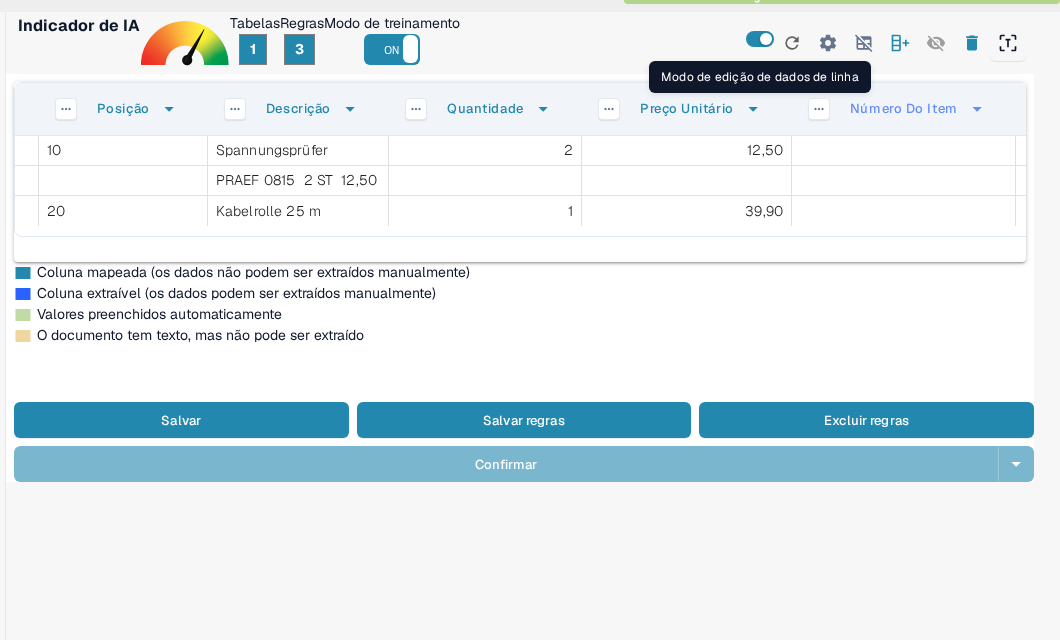
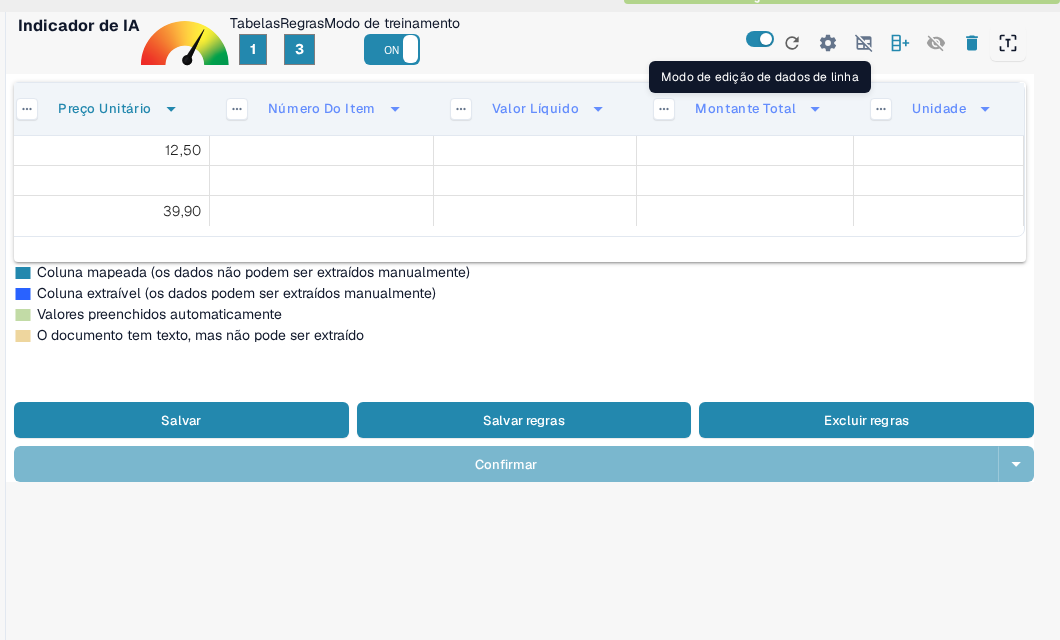
DBDC-541 PT rework r1: make editable-columns shot distinct and truthful
Reviewer (run 1583) found the editable-columns PT figure byte-identical to the
row-edit-mode figure while the captions claimed different content, and neither
the blue editable headers nor a tooltip were visibly in frame.

- pageshots.py: add a language-independent `scroll` step for overflow containers
  (needed so the grid's off-screen blue extractable headers enter the clip).
- PT spec: editable-columns shot now scrolls the grid container right so the
  blue extractable headers (Numero Do Item, Valor Liquido, Montante Total,
  Unidade) are actually visible in frame; hover kept on the row-edit toggle.
- Recaptured via mock runner: report ALL OK, problems [], unmocked [],
  share_same_as_en 0.51; new PT sha256 a27044c17adcfd45 differs from
  row-edit-mode 1325e56bb9c315b8.
- Page: drop the tooltip claim from the row-edit-mode alt text (the visible
  tooltip is not part of that frame), describe the scrolled blue headers in the
  editable-columns alt text.
- Ledger: central ledger rows 791/792 recorded and verdict current.

diff --git a/readme/administration-and-setup/setup/document-training/training-line-fields-table-training/improving-table-extraction-with-regex.md b/readme/administration-and-setup/setup/document-training/training-line-fields-table-training/improving-table-extraction-with-regex.md
@@ -42,11 +42,11 @@ Aqui está um exemplo em que a linha "PRAEF" se sobrepõe a **Bezeichnung**, **M
     <figure><img src="../../../../.gitbook/assets/a-training-line-fields-table-training-improving-table-extraction-with-regex-training-mode-pt-20261009.png" alt="Tela de Extração de Tabela com o Modo de treinamento ativado."><figcaption><p>Modo de treinamento ativado.</p></figcaption></figure>
 2.  **Ativar o Modo de Edição de Linha**
 
-    <figure><img src="../../../../.gitbook/assets/a-training-line-fields-table-training-improving-table-extraction-with-regex-row-edit-mode-pt-20261009.png" alt="Tela de Extração de Tabela com o modo Edição de dados de linha: Ativado e a dica de ferramenta correspondente visível."><figcaption><p>Modo de edição de linha ativado.</p></figcaption></figure>
+    <figure><img src="../../../../.gitbook/assets/a-training-line-fields-table-training-improving-table-extraction-with-regex-row-edit-mode-pt-20261009.png" alt="Tela de Extração de Tabela com o modo Edição de dados de linha ativado e a tabela pronta para edição manual."><figcaption><p>Modo de edição de linha ativado.</p></figcaption></figure>
 3.  **Selecionar e Mapear Texto**\
     Clique na parte correta do texto e atribua-a a um cabeçalho de coluna **azul**.
 
-    <figure><img src="../../../../.gitbook/assets/a-training-line-fields-table-training-improving-table-extraction-with-regex-editable-columns-pt-20261009.png" alt="Tabela extraída no modo de edição de linha com os cabeçalhos de coluna azuis, ainda vazios, que podem ser atribuídos manualmente."><figcaption><p>Os cabeçalhos de coluna azuis podem ser preenchidos manualmente.</p></figcaption></figure>
+    <figure><img src="../../../../.gitbook/assets/a-training-line-fields-table-training-improving-table-extraction-with-regex-editable-columns-pt-20261009.png" alt="Tabela extraída no modo de edição de linha, rolada para a direita para mostrar os cabeçalhos de coluna azuis à espera de preenchimento manual."><figcaption><p>Os cabeçalhos de coluna azuis podem ser preenchidos manualmente.</p></figcaption></figure>
 
 > Nota: As colunas de cor violeta já estão mapeadas pelo sistema e não podem ser editadas manualmente.
 
